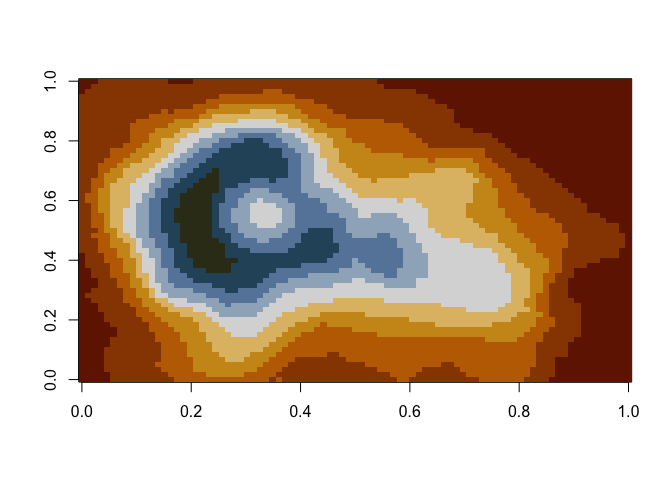
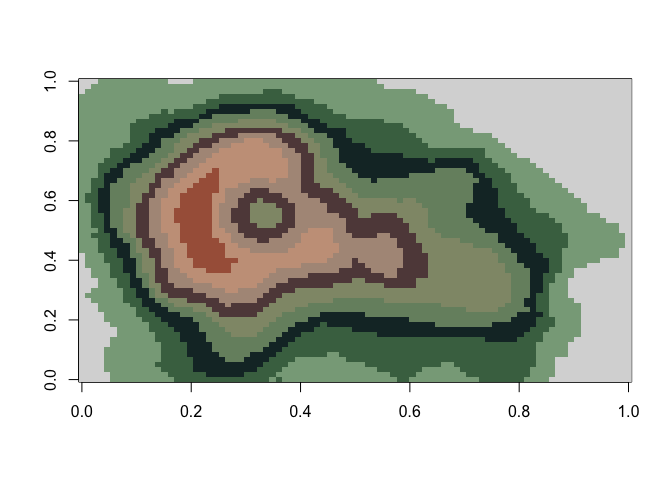
Update README to use a different palette

diff --git a/README.md b/README.md
@@ -19,7 +19,7 @@ This is a basic example of how to use `ochRe` in a plot
 ```r
 ## basic example code
 library(ochRe)
-pal <- colorRampPalette(ochre_palettes[["olsen_seq"]])
+pal <- colorRampPalette(ochre_palettes[["winmar"]])
 image(volcano, col = pal(10))
 ```
 
